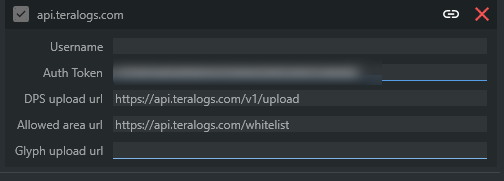
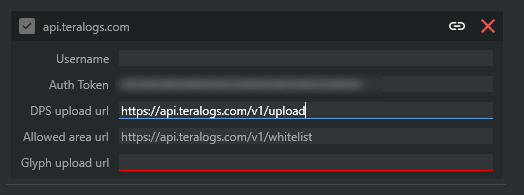
fix shinra page

diff --git a/src/components/Markdown/Uploads/Shinra.md b/src/components/Markdown/Uploads/Shinra.md
@@ -19,7 +19,7 @@ Fill data with values:
 + Username - keep it EMPTY
 + Auth token - your teralogs access token
 + DPS upload url - `https://api.teralogs.com/v1/upload`
-+ Allowed area url - `https://api.teralogs.com/whitelist`
++ Allowed area url - `https://api.teralogs.com/v1/whitelist`
 + Glyph upload url - keep it EMPTY
 
 &nbsp;
